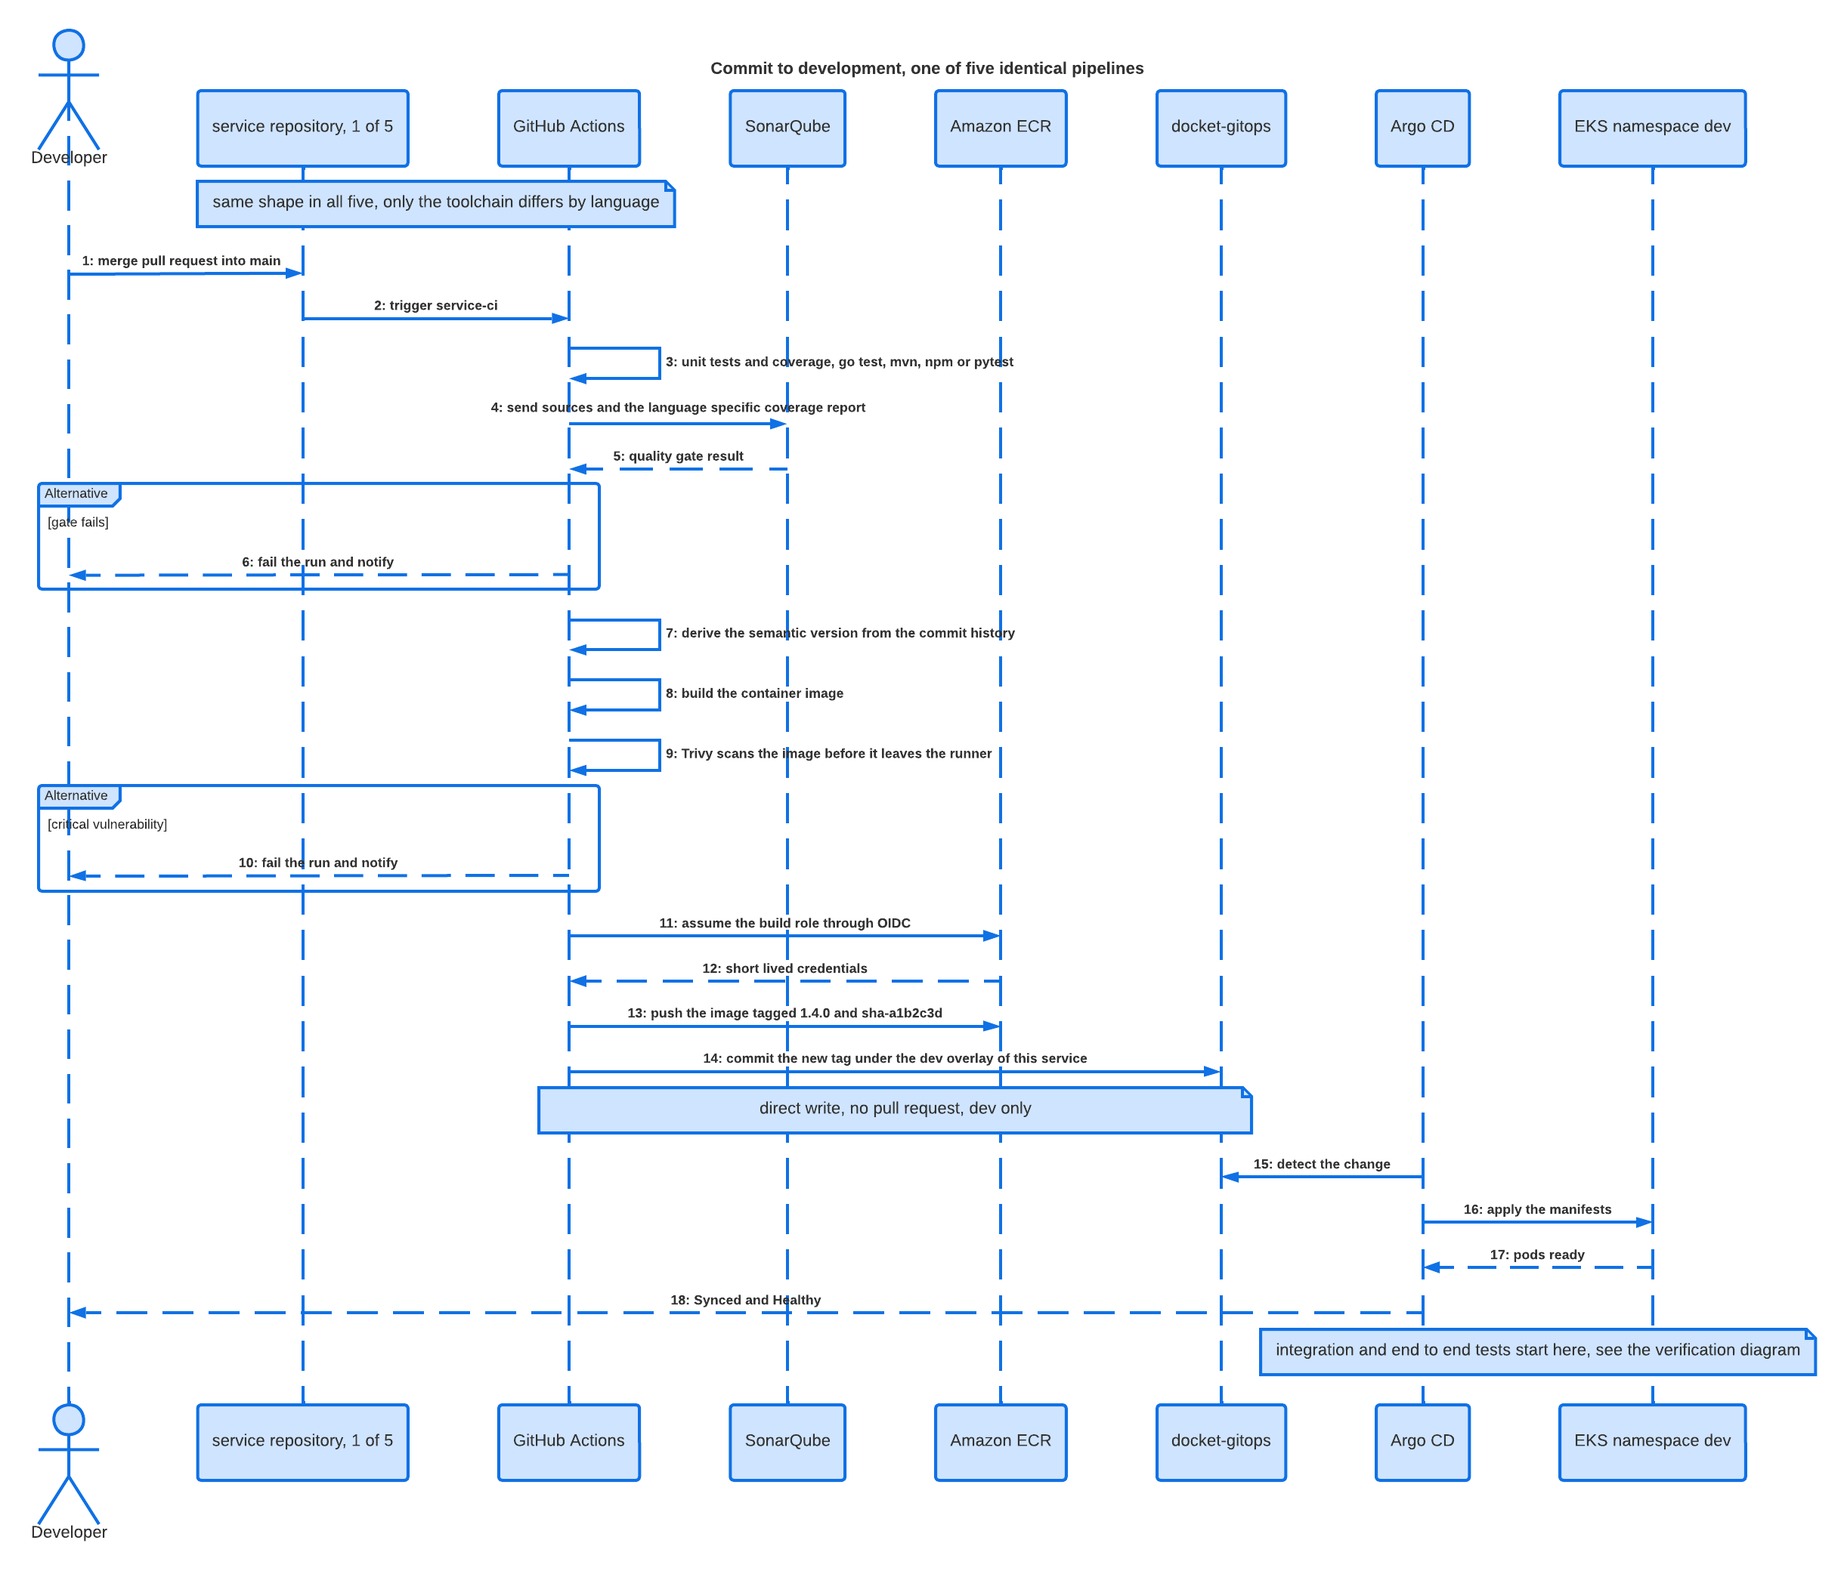
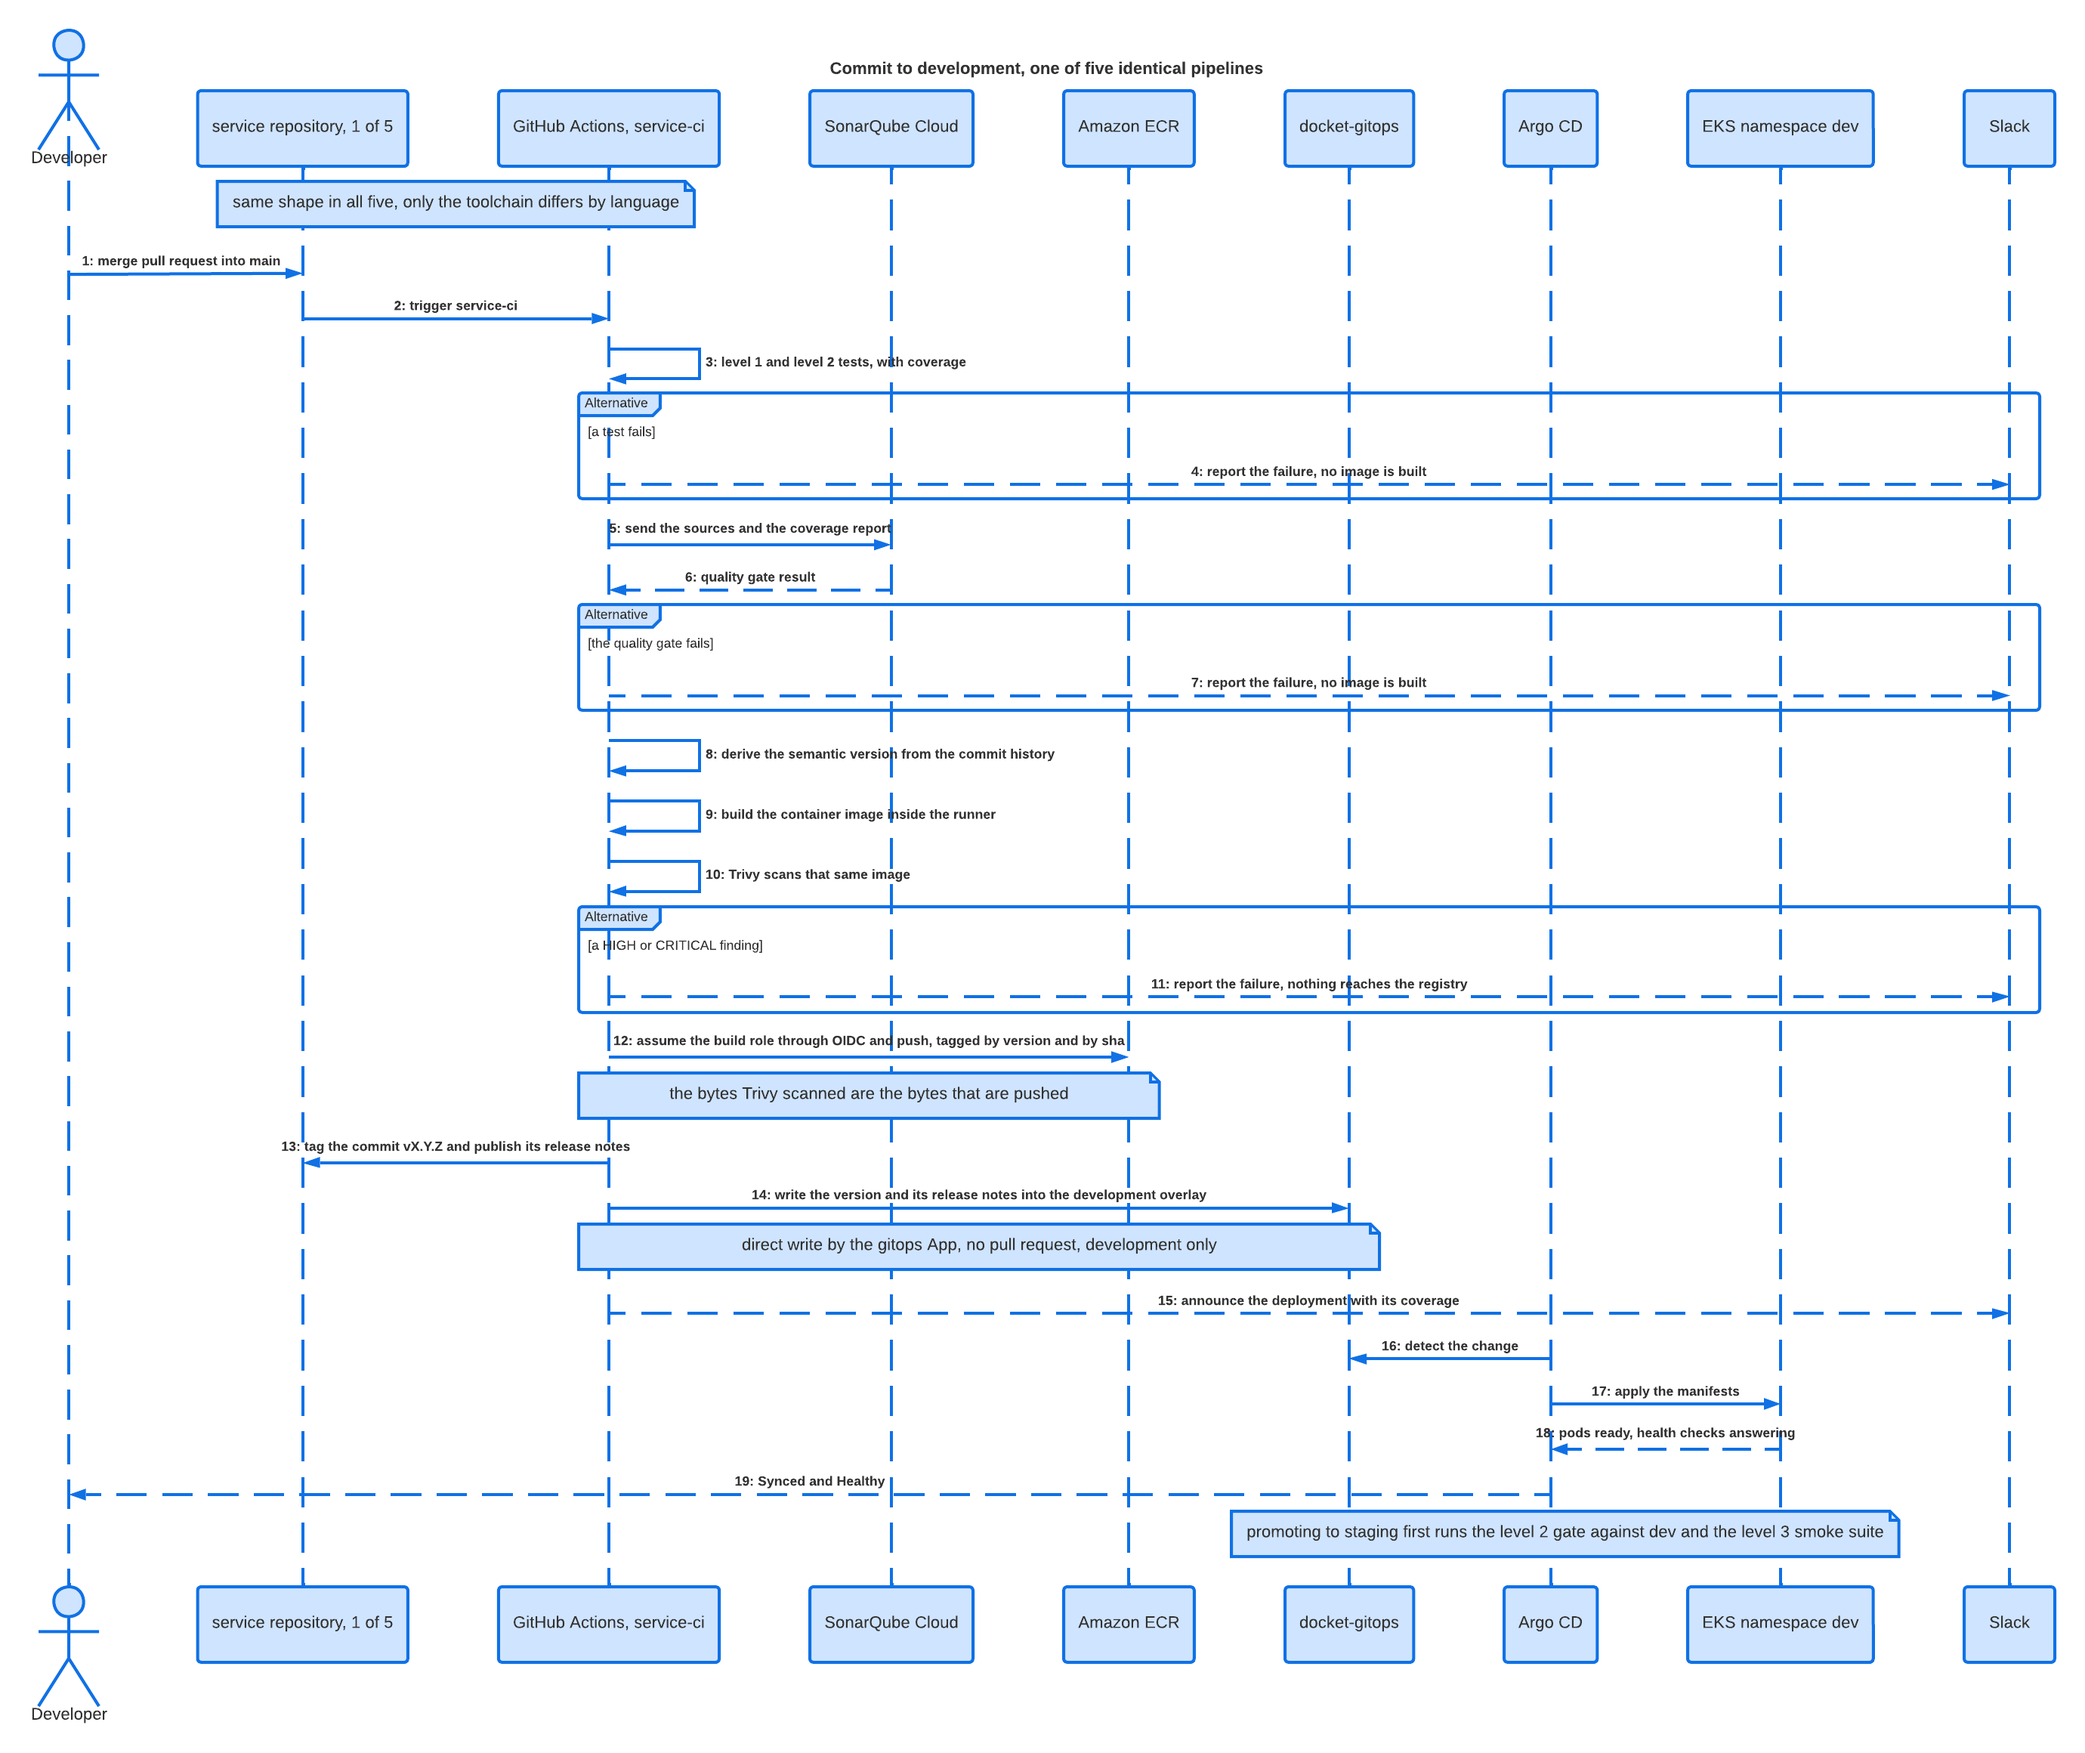
docs(diagrams): re-export the nine diagrams against the platform as it runs
Eight of the nine PNGs dated from 8 to 14 September: the redraw of 16
September reached Lucidchart but only the pipeline map was exported.
The logical view still showed Prometheus and Grafana, the rollback
started from a Prometheus alert, and the cluster lifecycle deleted
Ingresses.

The texts that described those diagrams move with them: the README
note on the redraw, the walkthrough's coverage row, the Users API
callers, the HIGH and CRITICAL image gate, the restore on start, the
Renovate bump and the production rollback, and a short section on
CloudWatch alarms reaching Slack in the AWS document.

Refs: #37

diff --git a/pipelines.md b/pipelines.md
@@ -147,7 +147,7 @@ shared action once all five work.
 
 The diagram fixes five decisions.
 
-**Trivy scans the image while it is still on the runner.** A critical finding stops the
+**Trivy scans the image while it is still on the runner.** A HIGH or CRITICAL finding stops the
 run before the image reaches ECR. The registry's own scan happens after publication, when
 the vulnerable image is already available to deploy.
 
@@ -286,8 +286,9 @@ promotion merges. The first staging promotion moved four services from `sha-` ta
 
 ![Cluster lifecycle](img/pipeline-cluster-lifecycle.png)
 
-The only pipeline with write credentials on AWS. The diagram documents behaviour already
-in production.
+The only pipeline that changes the AWS infrastructure. The diagram documents behaviour
+already in production. The start branch ends by restoring production to the release the
+`production` tag names, and never to anything newer (ADR-018).
 
 The shutdown branch is where the ordering matters. The workflow talks to the Kubernetes
 API **before** Terraform destroys anything, because load balancers, DNS records and volumes
@@ -313,13 +314,12 @@ It also shows why the exposure scan runs first in `module-ci`. The module reposi
 public and so is its Git history, so clearing an account identifier committed by mistake
 requires rewriting history.
 
-**What the diagram does not show is an automated bump.** ADR-012 and ADR-013 both describe
-Renovate opening the pull request that moves a stack's pinned `?ref=`. Renovate is
-installed organisation wide and has never opened one; every bump in
-`docket-infrastructure` so far was opened by a person. Card 52 holds the investigation.
-The gates that run on that pull request are the same either way, so the control the
-diagram describes is intact; what is missing is the automation that would notice a release
-exists.
+**The diagram shows the bump both ways.** ADR-012 and ADR-013 both describe Renovate
+opening the pull request that moves a stack's pinned `?ref=`. Renovate is installed
+organisation wide and has never opened one, so every bump in `docket-infrastructure` so far
+was opened by a person, the path the diagram marks as today. Card 52 holds the
+investigation. The gates that run on that pull request are the same either way; what is
+missing is the automation that would notice a release exists.
 
 ## Sequence 5. Verifying a version before it is promoted
 
@@ -359,13 +359,15 @@ The deliverables document asks for documented rollback plans. In GitOps the proc
 a counterintuitive property, and the diagram shows both paths so the working one is
 unambiguous.
 
-**Rolling back from the Argo CD interface fails here.** Argo CD reapplies the previous
-manifests while Git still declares the broken version, so the next reconciliation with
-self heal enabled restores the broken version. The tool undoes its own rollback.
+The procedure starts from a CloudWatch alarm posted to the Slack alerts channel (card 21).
 
-The rollback is a `git revert` in `docket-gitops`, reviewed like any other change,
-followed by a sync. It costs about a minute more, it leaves Git and the cluster in
-agreement, and it records what was reverted and by whom.
+**Rolling back from the Argo CD interface fails here.** Argo CD reapplies the previous
+manifests while Git and the `production` tag still declare the broken version, so the next
+sync, or the restore on the next cluster start, brings the broken version back.
+
+The rollback is a `git revert` in `docket-gitops`, approved like any other production
+change, followed by a sync and its record. It costs a few minutes more, it leaves Git, the
+cluster and the restore tag in agreement, and it records what was reverted and by whom.
 
 ## The four gate pipelines
 

diff --git a/README.md b/README.md
@@ -70,7 +70,7 @@ These conditions determine [ADR-002](decisions.md#adr-002-secrets-with-external-
 
 The PNGs in `img/` are the published version and travel with the repository. The editable source of each diagram lives in the tool indicated. When a diagram changes, the PNG must be re-exported under the same file name so the documents embedding it keep resolving.
 
-**A diagram is documentation and goes stale the same way.** All nine were redrawn on 16 September 2026 after a review found every one of them describing a state the platform had left behind: Ingress after the move to the Gateway API, one load balancer after production got its own, SonarQube and Prometheus as if they were deployed, Renovate opening a pull request it has never opened, and the AWS view still labelled in Spanish. None of the four changes responsible carried its diagram along, because the editable source lives outside the repository and never enters a pull request. A change that alters what a diagram shows is not finished until the PNG is re-exported.
+**A diagram is documentation and goes stale the same way.** A review on 16 September 2026 found every diagram describing a state the platform had left behind. Only the pipeline map was re-exported then; the other eight were redrawn in Lucidchart and their PNGs never reached this repository. All nine were redrawn again and re-exported on 21 September 2026 against the platform as it runs. They show the Gateway API with two load balancers, CloudWatch observability with its alarms reaching Slack, the SonarQube gate and the HIGH and CRITICAL image gate in every service pipeline, the recorded production sync that the restore on start reads, and Renovate as pending work (card 52). The editable source lives outside the repository and never enters a pull request, so a change that alters what a diagram shows is not finished until its PNG is re-exported.
 
 ## Contributing
 

diff --git a/logical-architecture.md b/logical-architecture.md
@@ -4,7 +4,7 @@
 |---|---|
 | **Purpose** | Describe which pieces make up Docket and how they talk to each other, without going into where each one runs. |
 | **Audience** | The whole team. It is the entry point for understanding the system without reading the code. |
-| **Status** | The components and their dependencies are verified against the `microservice-app-example` code. The supporting platform (registry, pipelines, observability) describes the target. |
+| **Status** | The components and their dependencies are verified against the `microservice-app-example` code. The supporting platform (registry, pipelines, CloudWatch observability) is deployed as described. |
 
 Where each thing runs is in [`environments.md`](environments.md) and [`aws-infrastructure.md`](aws-infrastructure.md).
 
@@ -35,7 +35,7 @@ The browser posts to `/login`, and the `HTTPRoute` sends that prefix to Auth API
 
 The browser sends the user JWT to `/todos`, and the `HTTPRoute` sends that prefix to Todos API. Todos API validates the token with the same secret Auth API signed it with.
 
-**Users API is not exposed.** The `HTTPRoute` declares three matches, `/login` to Auth API, `/todos` to Todos API and `/` to the Frontend. Users API appears in none of them, so its only client is the traffic that reaches it inside the namespace, from Auth API and from Todos API.
+**Users API is not exposed.** The `HTTPRoute` declares three matches, `/login` to Auth API, `/todos` to Todos API and `/` to the Frontend. Users API appears in none of them, so its only client is the traffic that reaches it inside the namespace, from Auth API.
 
 ### Asynchronous logging
 

diff --git a/project-walkthrough.md b/project-walkthrough.md
@@ -175,7 +175,7 @@ stated gap; missing means nothing exists yet.
 
 | Deliverable | Status | Where |
 |---|---|---|
-| Architecture with diagrams | Partial | [`logical-architecture.md`](logical-architecture.md), [`environments.md`](environments.md), [`aws-infrastructure.md`](aws-infrastructure.md); the nine diagrams were redrawn 16 September 2026 and do not yet show SonarQube or CloudWatch, both added afterward |
+| Architecture with diagrams | Complete | [`logical-architecture.md`](logical-architecture.md), [`environments.md`](environments.md), [`aws-infrastructure.md`](aws-infrastructure.md), [`pipelines.md`](pipelines.md); the nine diagrams were redrawn and re-exported on 21 September 2026 against the platform as it runs |
 | Agile methodology | Complete | [`AGENTS.md`](standards/AGENTS.md) §4 to §6, `docket-roadmap` |
 | Sprint and iteration records | Complete | `docket-roadmap/iterations/`, two recorded iterations |
 | User stories and acceptance criteria | Complete | `docket-roadmap/stories/`, one file per board card; cards 49, 50, 52 and 53 are added by `docket-roadmap` #54 (there is no card 51) |

diff --git a/aws-infrastructure.md b/aws-infrastructure.md
@@ -157,6 +157,16 @@ The parameter tree is segmented by environment (`/docket/dev/...`, `/docket/stag
 
 Parameters are written with the write-only argument `value_wo`, so the value never reaches Terraform state or the plan file.
 
+## Observability and alerts
+
+CloudWatch Container Insights runs as the `amazon-cloudwatch-observability` EKS add-on and
+collects metrics and container logs from every pod
+([ADR-023](decisions.md#adr-023-observability-cloudwatch-container-insights)). CloudWatch
+alarms on container restarts, CPU and memory per service and environment, and on the
+application error rate, publish to an SNS topic. A Lambda function formats each alarm and
+posts it to the Slack alerts channel, reading the webhook from Parameter Store when it runs.
+All of it belongs to the ephemeral stack, so it is created and destroyed with the cluster.
+
 ## Infrastructure change flow
 
 1. A push to the infrastructure repository triggers GitHub Actions.
